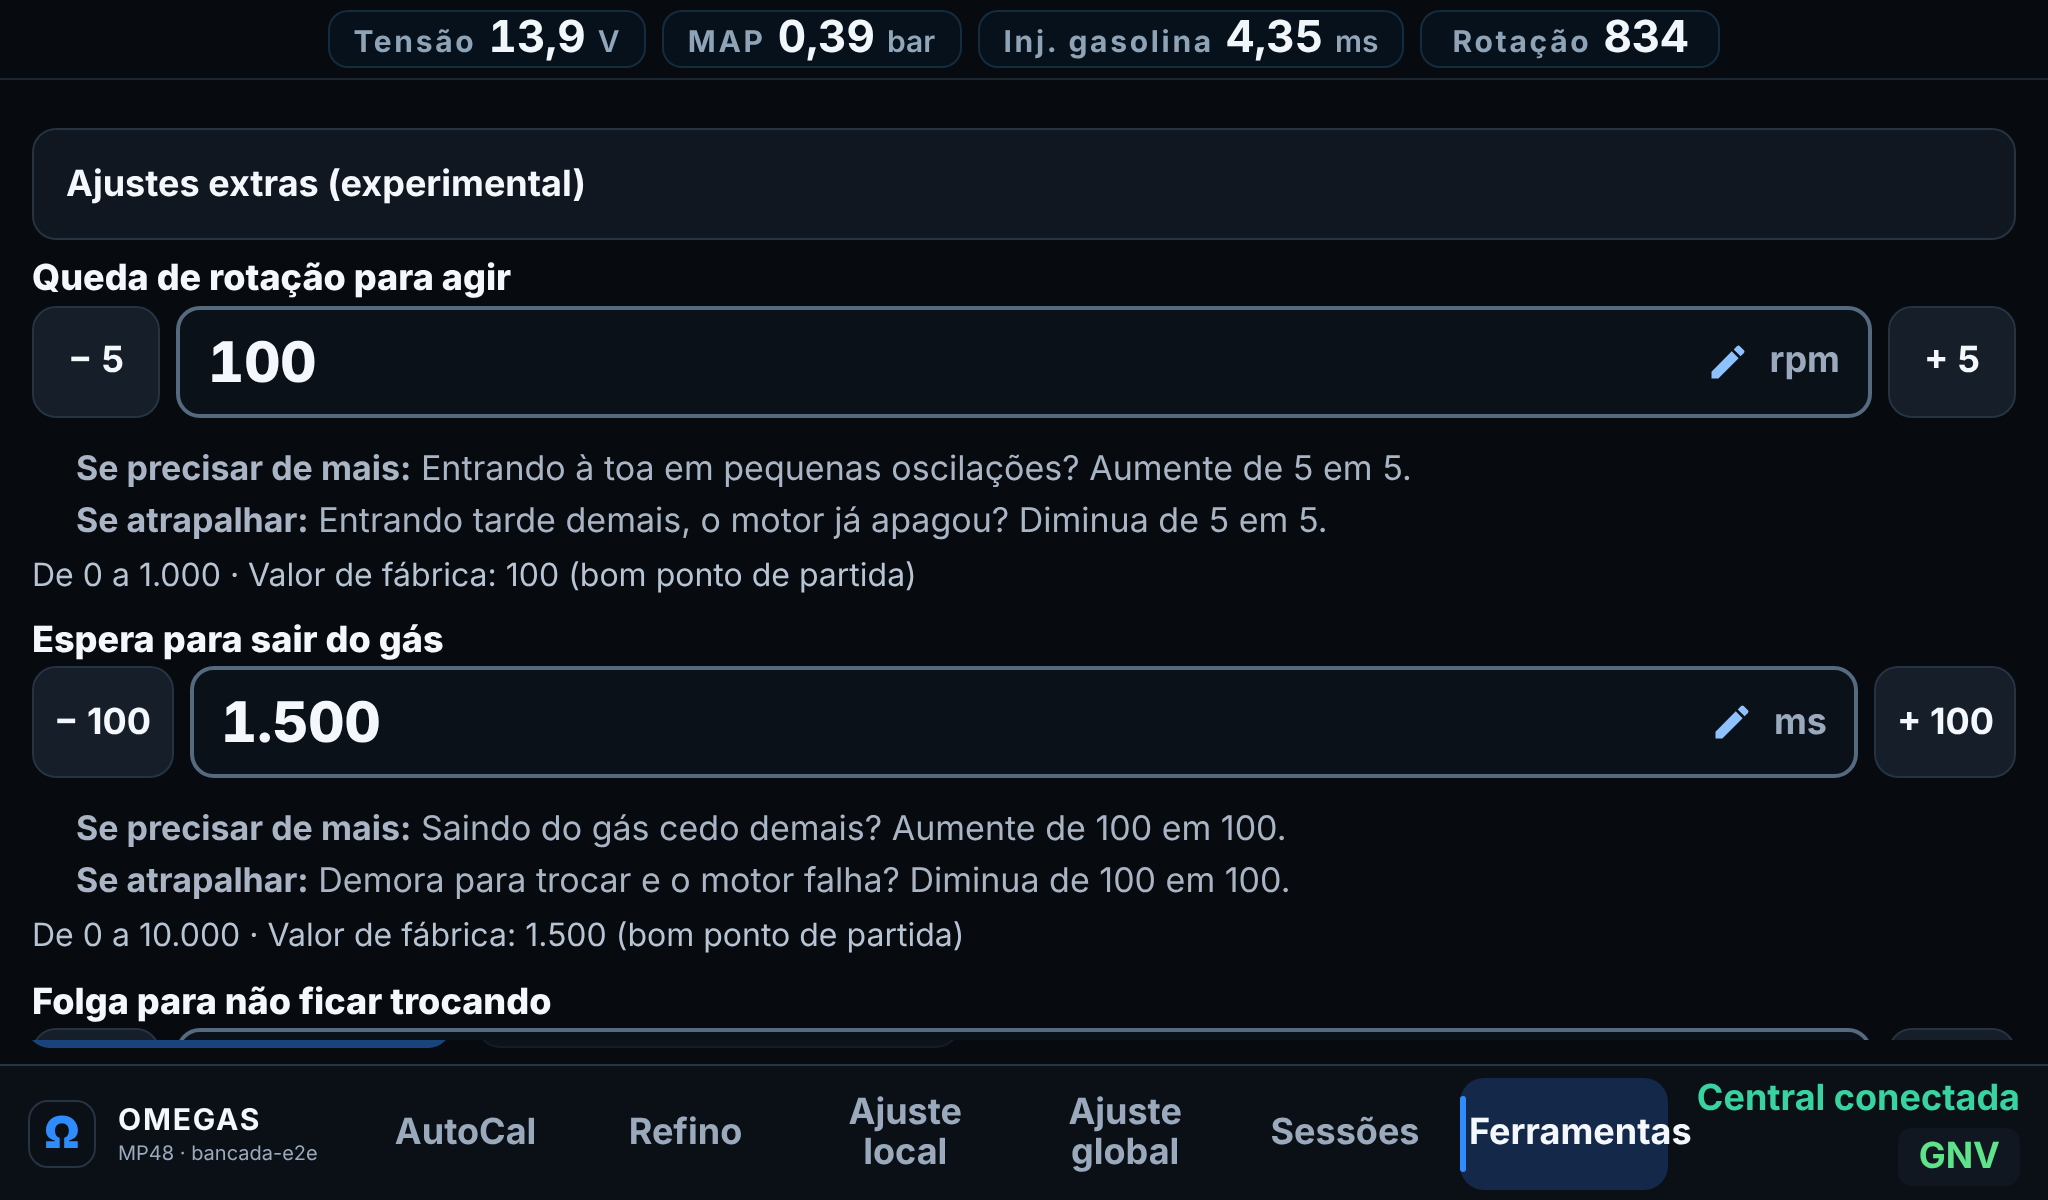
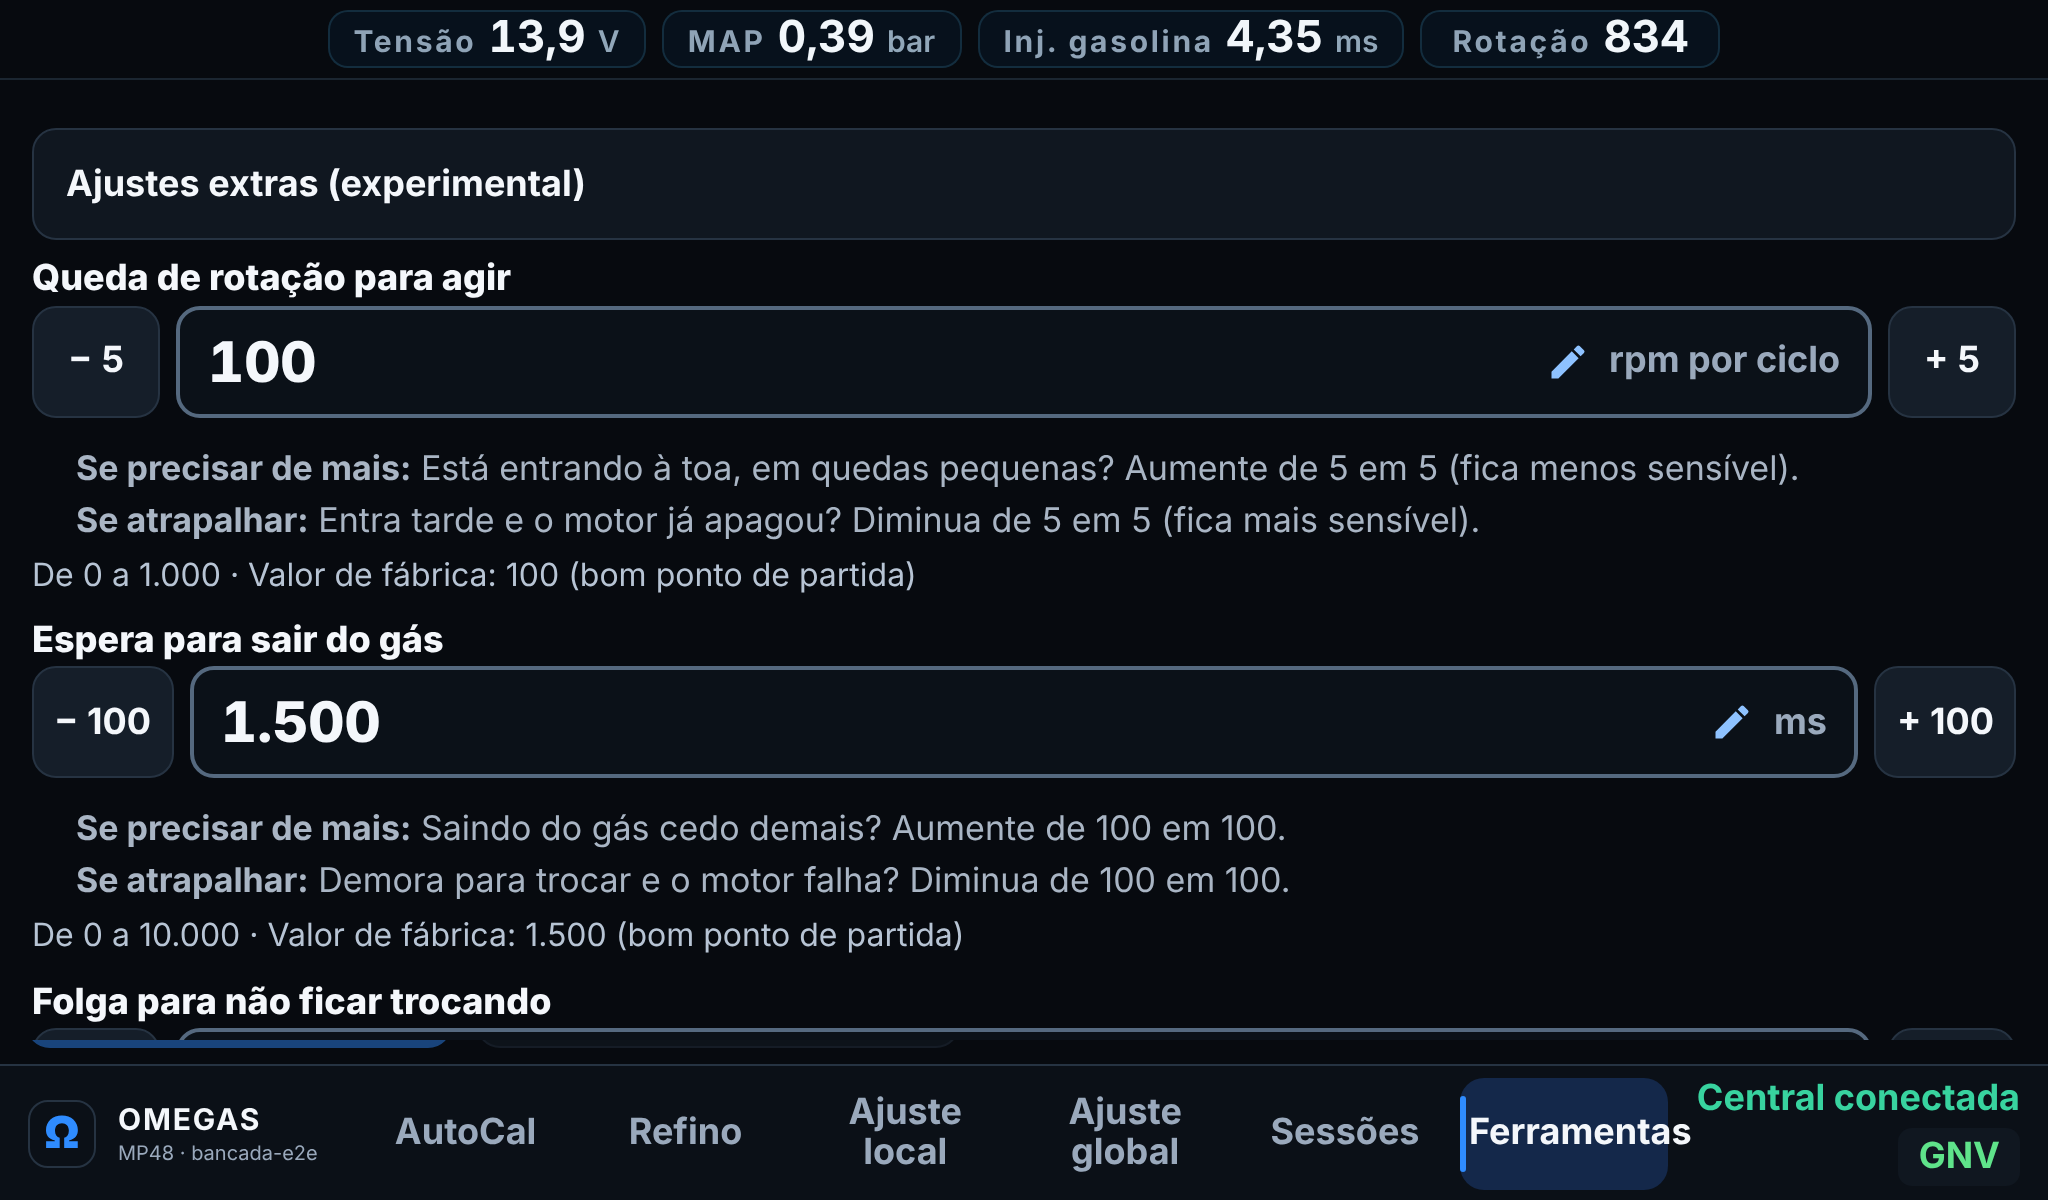
Anti-apagão: 'Como funciona' + unidades do original (rpm por ciclo) + mapa de conexões; teste dos pontos ligados
Claude-Session: https://claude.ai/code/session_01JEx3o71ikj852jJzY51Gkf

Changed region(s): [[0.1875, 0.37, 0.875, 0.4625], [0.75, 0.2775, 0.9062, 0.3083]]

diff --git a/app/src/main/assets/ui/core/anti-apagao-valores.js b/app/src/main/assets/ui/core/anti-apagao-valores.js
@@ -10,27 +10,30 @@
   const ADDRESS = 307;
   // Textos para quem nunca mexeu: o que o número faz, para que lado mexer em cada sintoma e o passo dos botões − / +.
   // O original só mostra o 1º número (Rotação máxima, 1600 rpm); o efeito dos outros 4 é INFERIDO (experimental).
+  // Rótulos e unidades do ORIGINAL (i18n 963-970): "Max RPM to enable un-stalling" (rpm), "Delta RPM to enable" (rpm/ciclo),
+  // "Delay to exit gas mode" (ms), "Hysteresis for enabling threshold" (rpm/ciclo), "Delta RPM to disenable" (rpm/ciclo).
+  // Evidência de uso (OBS-FIO, log novo): com a função ligada a rotação pós-corte nunca caiu de 600 rpm (desligada: 26 vezes, mín. 447).
   const FIELDS = [
     { index: 0, label: 'Rotação máxima para agir', unit: 'rpm', min: 0, max: 6000, factory: 1600, step: 50,
-      help: 'Até que rotação o anti-apagão fica de olho no motor. Acima disso ele não interfere. rpm = rotações por minuto.',
-      tipUp: 'O carro ainda apaga ao pisar na embreagem (parando, ré, quebra-molas)? Aumente de 50 em 50 e teste.',
+      help: 'O anti-apagão só entra com o motor ABAIXO desta rotação (parado, marcha lenta, manobra). Acima dela, em aceleração normal, ele não interfere.',
+      tipUp: 'O carro ainda apaga ao pisar na embreagem (parando, ré, quebra-molas, reduzindo)? Aumente de 50 em 50 e teste.',
       tipDown: 'Sente o carro segurando a gasolina sem necessidade? Diminua de 50 em 50. Se está tudo bem, deixe o valor de fábrica.' },
-    { index: 1, label: 'Queda de rotação para agir', unit: 'rpm', min: 0, max: 1000, factory: 100, step: 5,
-      help: 'Quão rápido o motor precisa perder rotação para a proteção entrar.',
-      tipUp: 'Entrando à toa em pequenas oscilações? Aumente de 5 em 5.',
-      tipDown: 'Entrando tarde demais, o motor já apagou? Diminua de 5 em 5.' },
+    { index: 1, label: 'Queda de rotação para agir', unit: 'rpm por ciclo', min: 0, max: 1000, factory: 100, step: 5,
+      help: 'Mede a VELOCIDADE da queda: quantas rpm o motor perde por ciclo. Se a rotação cair mais rápido que isso (embreagem, parada, depois de um corte), a proteção entra. Queda lenta não ativa.',
+      tipUp: 'Está entrando à toa, em quedas pequenas? Aumente de 5 em 5 (fica menos sensível).',
+      tipDown: 'Entra tarde e o motor já apagou? Diminua de 5 em 5 (fica mais sensível).' },
     { index: 2, label: 'Espera para sair do gás', unit: 'ms', min: 0, max: 10000, factory: 1500, step: 100,
-      help: 'Quanto tempo a central espera antes de sair do GNV. ms = milésimos de segundo (1.000 ms = 1 segundo).',
+      help: 'Tempo de espera para a central sair do modo gás quando a proteção age (original: "Delay to exit gas mode"). 1.000 ms = 1 segundo.',
       tipUp: 'Saindo do gás cedo demais? Aumente de 100 em 100.',
       tipDown: 'Demora para trocar e o motor falha? Diminua de 100 em 100.' },
-    { index: 3, label: 'Folga para não ficar trocando', unit: 'rpm', min: 0, max: 1000, factory: 2, step: 5,
-      help: 'Evita ligar e desligar a proteção por oscilação pequena.',
+    { index: 3, label: 'Folga para não ficar trocando', unit: 'rpm por ciclo', min: 0, max: 1000, factory: 2, step: 5,
+      help: 'Margem (histerese) para a proteção não ligar e desligar por oscilação pequena perto do limite.',
       tipUp: 'A proteção liga e desliga toda hora? Aumente de 5 em 5.',
       tipDown: 'Demora para voltar ao normal? Diminua de 5 em 5.' },
-    { index: 4, label: 'Queda para parar de agir', unit: 'rpm', min: 0, max: 1000, factory: 20, step: 5,
-      help: 'Quando a queda de rotação diminui até este valor, a proteção para de agir.',
-      tipUp: 'A proteção solta cedo e o motor volta a falhar? Diminua de 5 em 5.',
-      tipDown: 'Ela demora a soltar e atrapalha a aceleração? Aumente de 5 em 5.' },
+    { index: 4, label: 'Queda para parar de agir', unit: 'rpm por ciclo', min: 0, max: 1000, factory: 20, step: 5,
+      help: 'Quando a queda por ciclo ficar menor que este valor, o motor já se firmou e a proteção para de agir.',
+      tipUp: 'A proteção demora a soltar e atrapalha a aceleração? Aumente de 5 em 5.',
+      tipDown: 'Ela solta cedo e o motor volta a falhar? Diminua de 5 em 5.' },
   ];
   const COUNT = FIELDS.length;
   const FACTORY = FIELDS.map(f => f.factory);

diff --git a/app/src/main/assets/ui/components/advanced.js b/app/src/main/assets/ui/components/advanced.js
@@ -334,6 +334,17 @@
       return `
         <section class="tool-view values-view" data-card="valores">
           <header><button type="button" class="secondary tool-back" data-adv-back><span aria-hidden="true">‹</span> Voltar</button><h3>Valores do anti-apagão</h3><p>${escapeHtml(why || 'Use − e + (ou toque no número e digite). Depois toque em Gravar valores: grava na hora e dá para Desfazer.')}</p></header>
+          <section class="como-funciona" aria-label="Como funciona">
+            <p><b>Como funciona:</b> quando a rotação do motor <b>cai de repente</b> e está <b>abaixo de ${escapeHtml(this.V.num(values ? values[0] : 1600))} rpm</b> (ex.: você pisa na embreagem parando, engatando ré ou reduzindo), o anti-apagão entra e ajuda o motor a não apagar. Em aceleração normal ele não faz nada.</p>
+            <details class="tool-tech"><summary>Ver o caminho completo e o que NÃO é</summary>
+              <ol>
+                <li>Rotação cai mais rápido que <b>Queda para agir</b> <em>e</em> está abaixo da <b>Rotação máxima</b> → a proteção <b>entra</b>.</li>
+                <li>A central sai do gás conforme a <b>Espera</b> (ms) e ajuda o motor a segurar.</li>
+                <li>Quando a queda fica menor que <b>Queda para parar</b>, a proteção <b>solta</b>. A <b>Folga</b> evita ligar e desligar toda hora.</li>
+              </ol>
+              <p><b>Não é o corte de injeção</b> (soltar o acelerador em desaceleração). O corte tem ajustes próprios no cartão <b>Saída do corte</b>. Mas os dois se encontram: no seu log, depois de cada corte, com o anti-apagão <b>desligado</b> a rotação afundou até 447 rpm (26 vezes abaixo de 600); <b>ligado</b>, nunca passou de 680 rpm.</p>
+            </details>
+          </section>
           <div class="num-grid">${fields}</div>
           ${this.vals.view().phase === 'done' ? `<p class="adv-saved" role="status">${escapeHtml(this.vals.view().message)}</p>` : ''}
 ${this.vals.view().phase === 'preparing' || this.vals.view().phase === 'writing' ? '<p class="adv-saved" role="status">Gravando…</p>' : ''}

diff --git a/app/src/main/assets/ui/styles-ux-leigo.css b/app/src/main/assets/ui/styles-ux-leigo.css
@@ -280,3 +280,7 @@
 .num-tips { font-size: 13px; }
 .values-view > * { flex-shrink: 0; }
 .extras-experimentais { margin-bottom: 12px; } .values-view .tool-actions { margin-top: 12px; }
+
+.como-funciona { margin: 6px 0 8px; padding: 10px 14px; border-radius: 12px; background: var(--surface-2); font-size: 14px; line-height: 1.4; }
+.como-funciona p { margin: 0 0 6px; }
+.como-funciona ol { margin: 6px 0; padding-left: 20px; }

diff --git a/docs/progbase/abas/ANTI-APAGAO-mapa.md b/docs/progbase/abas/ANTI-APAGAO-mapa.md
@@ -1,0 +1,47 @@
+# Anti-apagão (anti-stallo): mapa de conexões
+
+Um só lugar liga: **tela do original → bytes → app → teste → evidência do log**. Marcas: OBS-FIO (visto no fio), OBS-COD (provado no código do ProgBase), INFERIDO.
+
+```mermaid
+flowchart LR
+  subgraph ORIGINAL[Tela do original - aba F9 Injetores]
+    CK[CHECKANTISTALLO - Enable un-stalling strategy]
+    L0[LabelAntiStallo0 - Max RPM to enable: rpm] 
+    L1[LabelAntiStallo1 - Delta RPM to enable: rpm/ciclo]
+    L2[LabelAntiStallo2 - Delay to exit gas mode: ms]
+    L3[LabelAntiStallo3 - Hysteresis: rpm/ciclo]
+    L4[LabelAntiStallo4 - Delta RPM to disenable: rpm/ciclo]
+  end
+  subgraph FIO[Bytes - OBS-FIO]
+    F3[FLAG_CONF3 serial 250: palavra0 bit 0x20 = caixa]
+    V307[ANTI_STALLO vetor 307: 5 x u16 = 1600 100 1500 2 20]
+    Q35[35 FA 00 w0 w1 cs - liga/desliga]
+  end
+  subgraph APP[App - aba Ferramentas]
+    SW[Interruptor 1 toque, sem pergunta]
+    VAL[Valores: numero principal + extras experimentais, botoes -/+]
+    CF[Como funciona: quando age e o que NAO e]
+  end
+  subgraph EVID[Evidencia no log novo - OBS-FIO]
+    LOG[Ligado: pos-corte min 680 rpm, 0 vezes abaixo de 600. Desligado: min 447, 26 vezes]
+  end
+  CUT[Corte de injecao - cartao Saida do corte: NUMERO_INJ_BENZINA_CUTOFF 0x6A, GIRI_TEMPO_CUTOFF 0x32]
+  CK --> F3 --> Q35 --> SW
+  L0 --> V307
+  L1 --> V307
+  L2 --> V307
+  L3 --> V307
+  L4 --> V307
+  V307 --> VAL
+  VAL --> CF
+  CUT -. outra funcao; os dois se encontram: apos o corte a rotacao cai .-> LOG
+  SW --> LOG
+```
+
+## Resposta curta (para o dono)
+- **Age sempre no corte?** Não. É função própria. Só entra quando a rotação está **abaixo** da "Rotação máxima para agir" **e** cai **mais rápido** que "Queda para agir" (rpm por ciclo). Embreagem pisada, parada, ré, quebra-molas, redução, ou o afundo depois de um corte: todos produzem essa queda rápida; o anti-apagão olha só a queda, não a causa (INFERIDO do rótulo e do log).
+- **O corte de injeção é afetado?** Os ajustes do corte (Saída do corte) continuam separados e não são alterados por estes números. No log, o anti-apagão segurou a rotação *depois* dos cortes (OBS-FIO).
+- **Unidades:** campos 1, 3 e 4 são **rpm por ciclo** no original (UNITARPMCICLOMOTORE), não rpm simples (OBS-COD, i18n 970).
+- **Ainda INFERIDO:** efeito exato de "Espera para sair do gás" (campo 2) e dos extras; o original só mostra o campo 0 (captura F9).
+
+Testes: `tests/ui/anti-apagao-valores-didatico.test.cjs`, `tests/ui/anti-apagao-toque-real.test.cjs`. Código: `app/src/main/assets/ui/core/anti-apagao-valores.js`, `components/advanced.js`.
